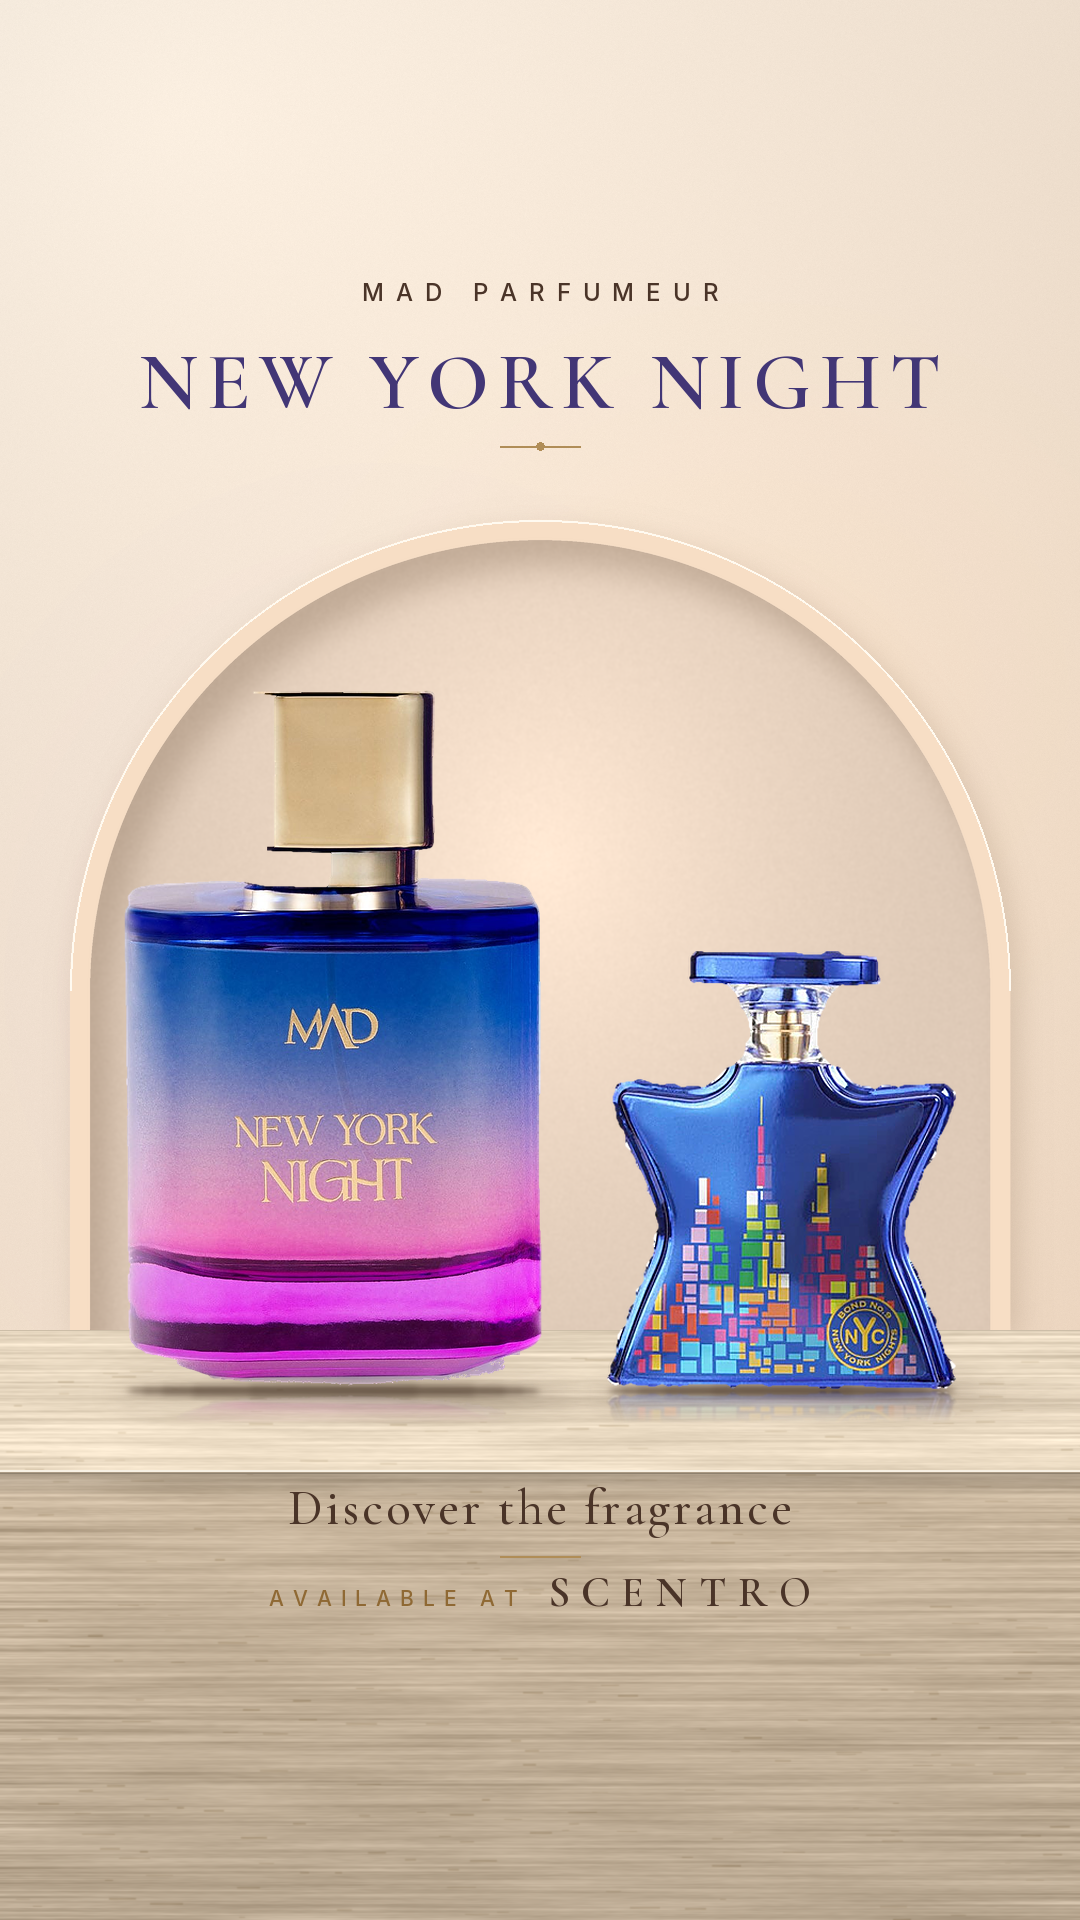
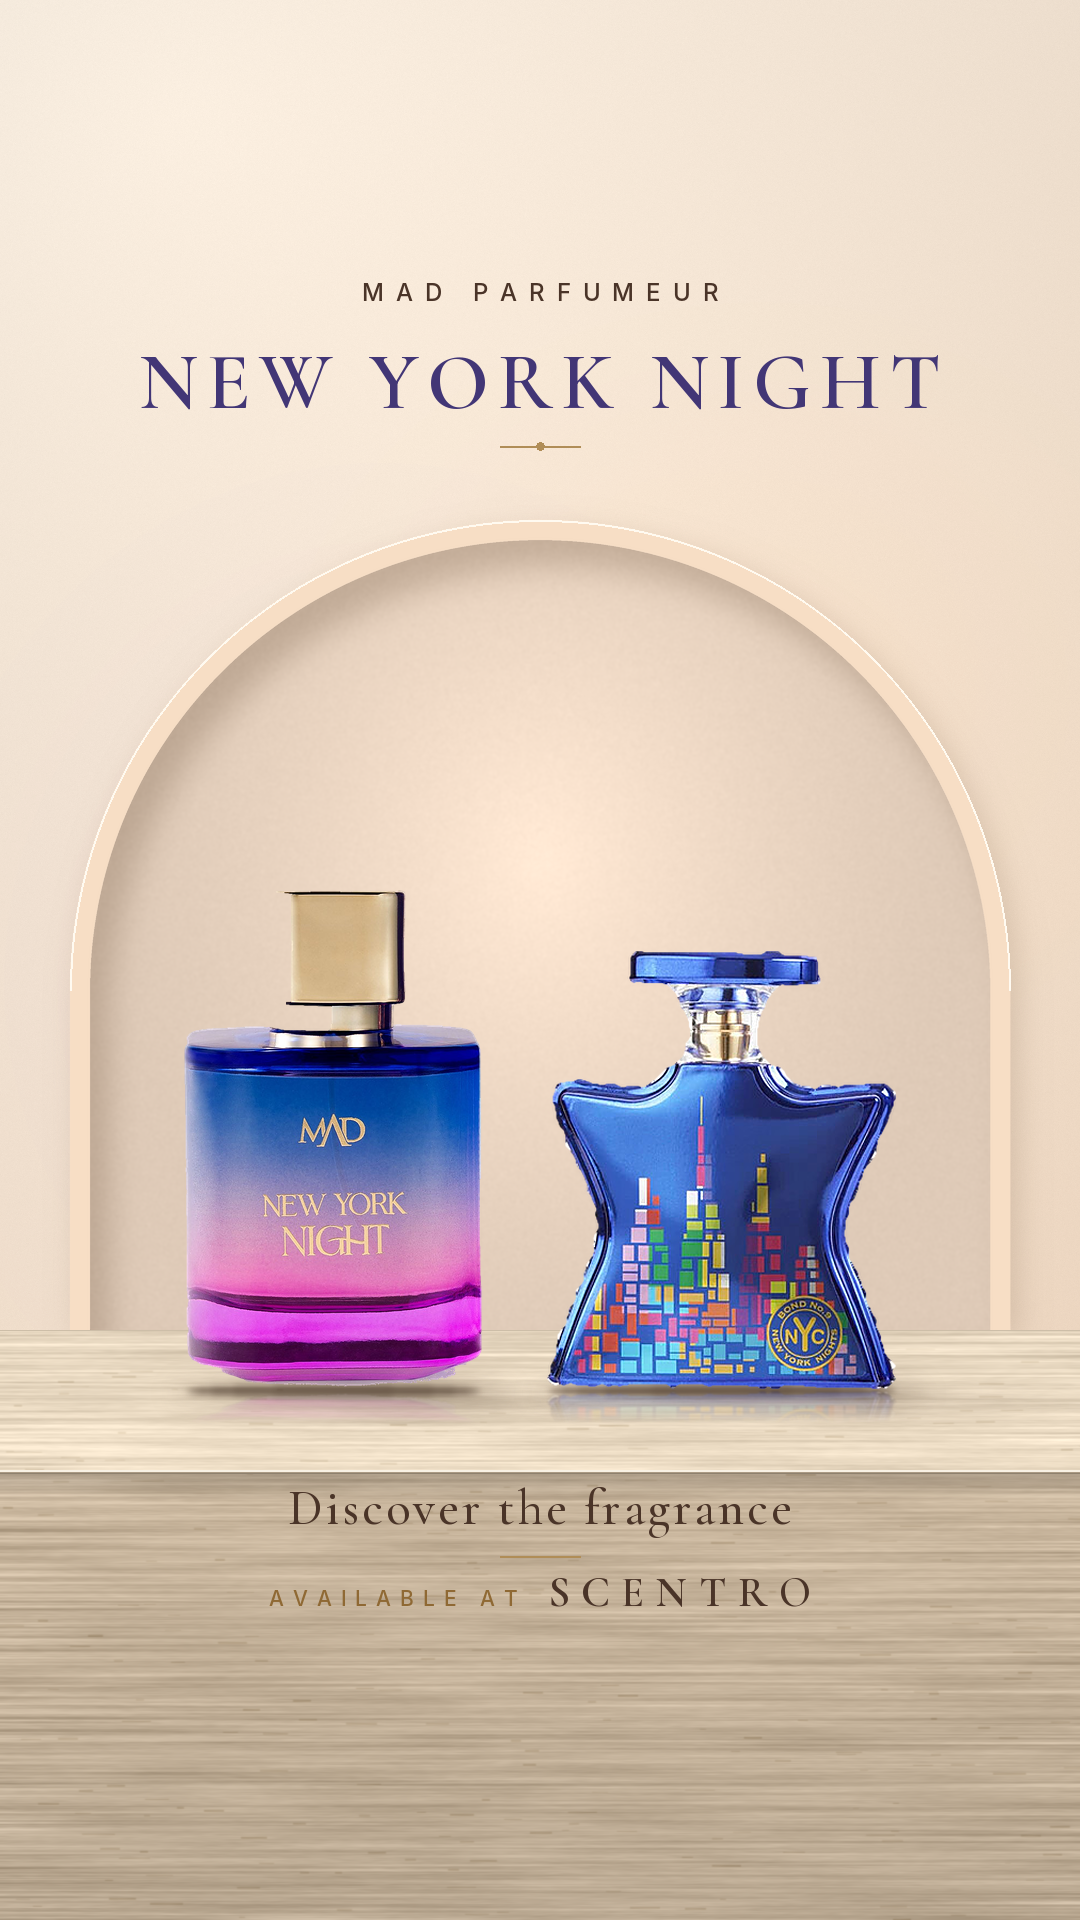
Stories: MAD bottle scaled down to sit close to the original's size (nothing else changed)
Claude-Session: https://claude.ai/code/session_01UApyk7Kdwc7MEVpfJtnJsr

Changed region(s): [[0.0917, 0.3438, 0.8861, 0.75]]

diff --git a/scentro/stories/build_stories.py b/scentro/stories/build_stories.py
@@ -230,13 +230,13 @@ def duo_story(label, mad, mad_h, orig, orig_h, pal, title, title_max, subtitle=N
 def story_nyn_v2():
     pal = dict(bg_a=(251, 240, 226), bg_b=(241, 217, 194), niche=(240, 218, 198), stone=(4, 0, -4), title=(66, 54, 118),
                glows=[(380, 980, 560, 620, (176, 150, 222), 0.14), (760, 700, 600, 500, (255, 214, 176), 0.20)])
-    return duo_story('nyn_v2', prep_nyn_bottle(), 700, A + 'orig_bond9_nyn_r.png', 440, pal, 'NEW YORK NIGHT', 820)
+    return duo_story('nyn_v2', prep_nyn_bottle(), 500, A + 'orig_bond9_nyn_r.png', 440, pal, 'NEW YORK NIGHT', 820)
 
 
 def story_gs_v2():
     pal = dict(bg_a=(249, 243, 229), bg_b=(237, 223, 197), niche=(233, 216, 186), stone=(3, 1, -5), title=(124, 90, 38),
                glows=[(420, 960, 600, 640, (255, 222, 150), 0.18), (780, 720, 560, 480, (255, 236, 200), 0.18)])
-    return duo_story('gs_v2', A + 'mad_gs_bottle_c.png', 700, A + 'orig_rouge_malachite_r.png', 600, pal, 'GOLDEN SOUL', 820, subtitle='EXTRAIT DE PARFUM')
+    return duo_story('gs_v2', A + 'mad_gs_bottle_c.png', 650, A + 'orig_rouge_malachite_r.png', 600, pal, 'GOLDEN SOUL', 820, subtitle='EXTRAIT DE PARFUM')
 
 
 JOBS = {'nyn': (story_nyn_v2, 'stories/output/scentro_new_york_night_story.png'),
